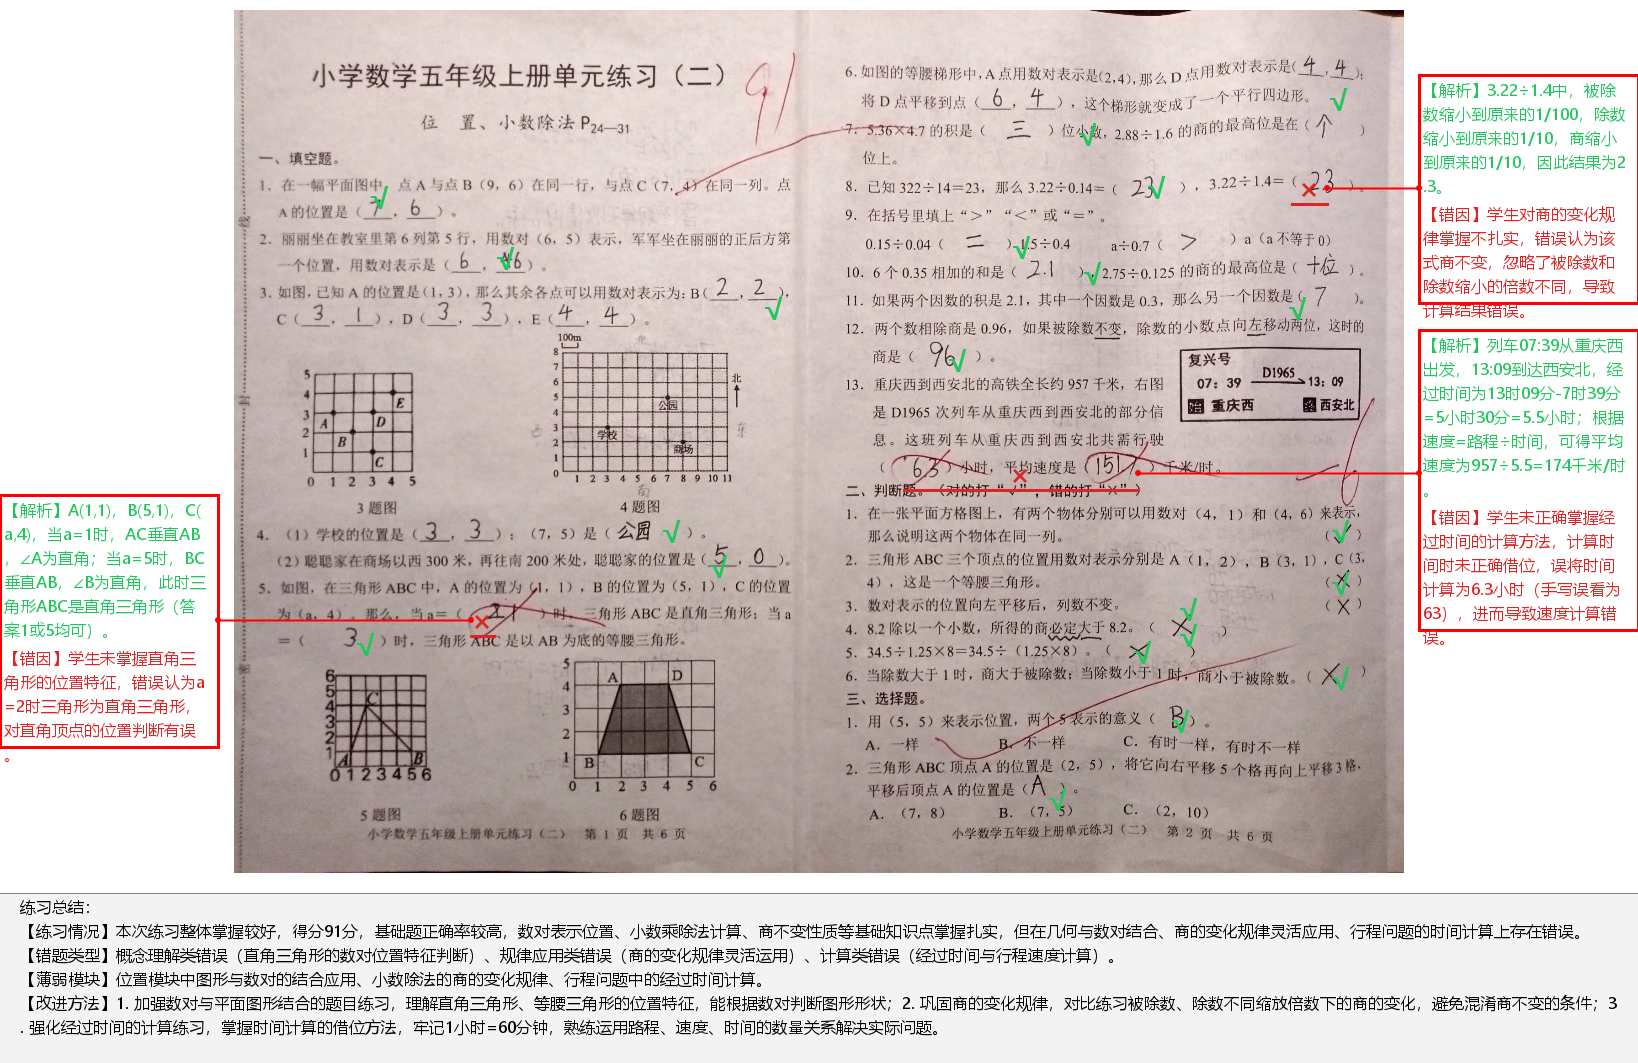
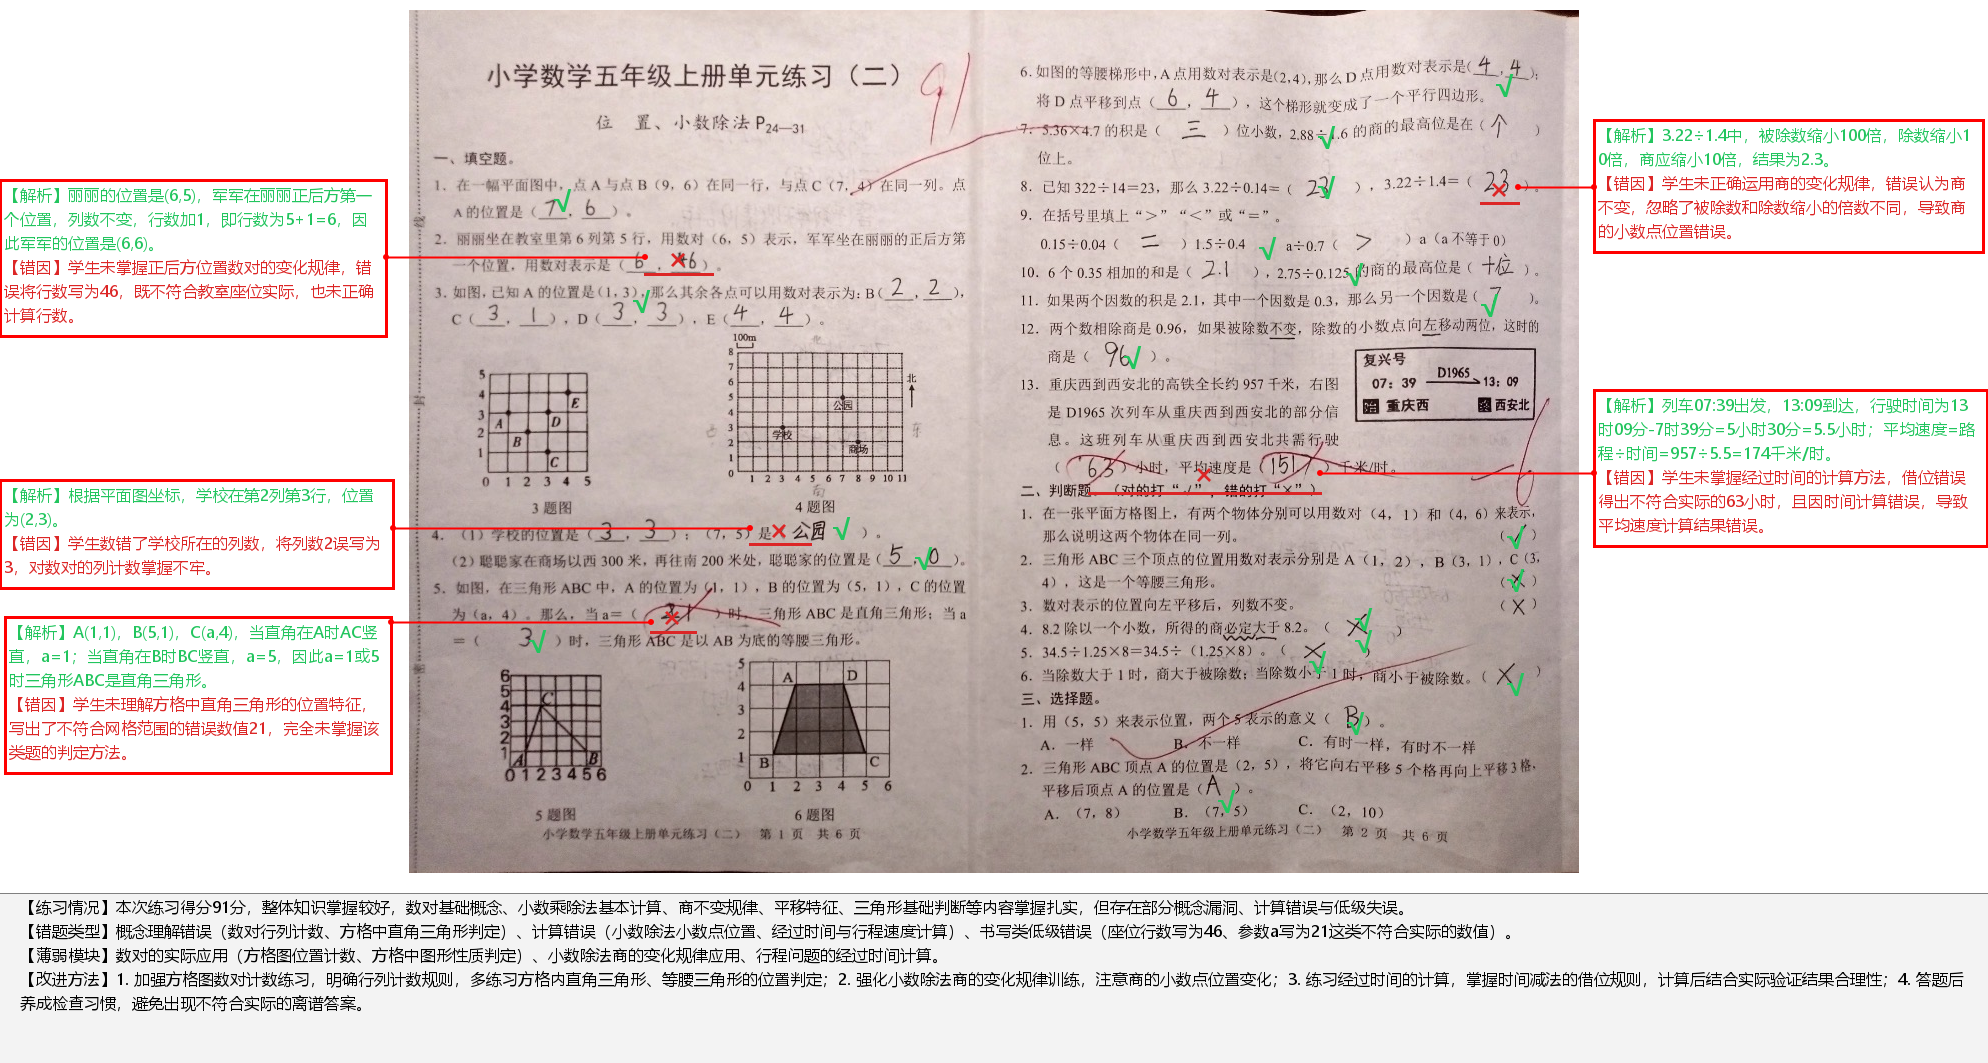
终版完善v1.3

Changed region(s): [[0.0, 0.0, 1.0, 0.9934], [0.6538, 0.0, 0.7161, 0.031]]

diff --git a/smart-grading-backend/src/main/java/com/example/smartgrading/service/ImageMarkService.java b/smart-grading-backend/src/main/java/com/example/smartgrading/service/ImageMarkService.java
@@ -34,7 +34,7 @@ public class ImageMarkService {
         int origHeight = original.getHeight();
 
         // ---- 1. 计算大画布尺寸和偏移量 ----
-        double marginRatio = 0.2; // 左右各20%空白
+        double marginRatio = 0.35; // 左右各35%空白
         int marginX = (int)(origWidth * marginRatio);
         int marginY = 10; // 上边距保留少量，仅用于美观
         int canvasWidth = origWidth + 2 * marginX;
@@ -175,14 +175,34 @@ public class ImageMarkService {
     // 根据左右空白宽度动态调整最大框宽
     int maxWidth = Math.min(marginX - 30, 380);
     maxWidth = Math.max(maxWidth, 150);
-    List<String> lines = wrapText(explanation, fm, maxWidth);
     int lineHeight = fm.getHeight() + 2;
-    int textHeight = lines.size() * lineHeight;
+
+    // 1. 拆分【解析】和【错因】
+    String parsePart = explanation;
+    String errorPart = "";
+    if (explanation.contains("【错因】")) {
+        int idx = explanation.indexOf("【错因】");
+        parsePart = explanation.substring(0, idx).trim();
+        errorPart = "【错因】" + explanation.substring(idx + "【错因】".length()).trim();
+    }
+
+    // 2. 分别换行
+    List<String> parseLines = wrapText(parsePart, fm, maxWidth);
+    List<String> errorLines = wrapText(errorPart, fm, maxWidth);
+
+    // 3. 合并为最终行列表（所有绘制的行）
+    List<String> allLines = new ArrayList<>(parseLines);
+    if (!errorLines.isEmpty()) {
+        allLines.addAll(errorLines);
+    }
+
+    // 4. 用 allLines 计算尺寸
     int textWidth = 0;
-    for (String line : lines) {
+    for (String line : allLines) {
         int w = fm.stringWidth(line);
         if (w > textWidth) textWidth = w;
     }
+    int textHeight = allLines.size() * lineHeight;
     int paddingText = 4;
     int extraPadding = 8;
     int extraVertical = 4;
@@ -213,7 +233,7 @@ public class ImageMarkService {
     if (distRight >= distLeft) {
         directionOrder = Arrays.asList("right", "left");
     } else {
-        directionOrder = Arrays.asList("left", "right");
+        directionOrder = Arrays.asList("dleft", "right");
     }
 
     for (String dir : directionOrder) {
@@ -358,42 +378,17 @@ public class ImageMarkService {
     g.setColor(Color.RED);
     g.drawRect(chosenRect.x, chosenRect.y, chosenRect.width, chosenRect.height);
 
-    // ---- 拆分【解析】和【错因】 ----
-    String explanationText = explanation;
-    String parsePart = "";
-    String errorPart = "";
-    if (explanationText.contains("【错因】")) {
-        int idx = explanationText.indexOf("【错因】");
-        parsePart = explanationText.substring(0, idx).trim();
-        errorPart = "【错因】" + explanationText.substring(idx + "【错因】".length()).trim();
-    } else {
-        parsePart = explanationText.trim();
-    }
-
-    // 分别对两部分进行换行
+    // 绘制文字（绿色为解析部分，红色为错因部分）
     int drawX = chosenRect.x + paddingText;
     int drawY = chosenRect.y + paddingText + fm.getAscent();
-
-    // 绘制解析部分（绿色）
-    if (!parsePart.isEmpty()) {
-        g.setColor(new Color(34, 197, 94)); // 绿色
-        List<String> parseLines = wrapText(parsePart, fm, maxWidth);
-        for (String line : parseLines) {
-            g.drawString(line, drawX, drawY);
-            drawY += lineHeight;
+    boolean isErrorPart = false;
+    for (String line : allLines) {
+        if (line.startsWith("【错因】")) {
+            isErrorPart = true;
         }
-    }
-
-    // 绘制错因部分（红色），如果有
-    if (!errorPart.isEmpty()) {
-        // 换行增加间距
-        drawY += 4;
-        g.setColor(new Color(220, 38, 38)); // 红色
-        List<String> errorLines = wrapText(errorPart, fm, maxWidth);
-        for (String line : errorLines) {
-            g.drawString(line, drawX, drawY);
-            drawY += lineHeight;
-        }
+        g.setColor(isErrorPart ? new Color(220, 38, 38) : new Color(34, 197, 94));
+        g.drawString(line, drawX, drawY);
+        drawY += lineHeight;
     }
 
     Point2D[] pts = closestPoints(bounds, chosenRect);
